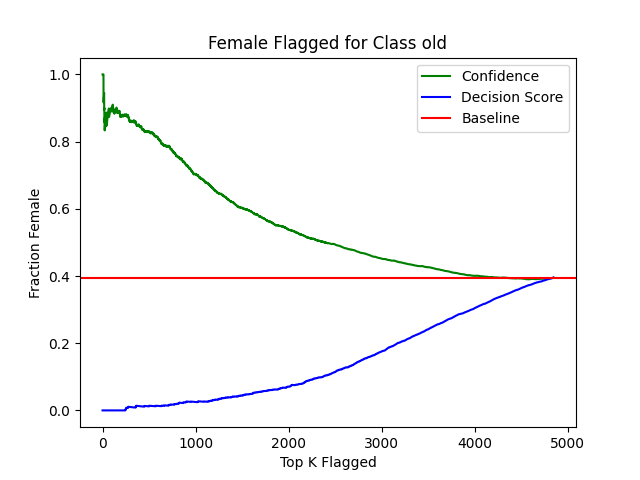
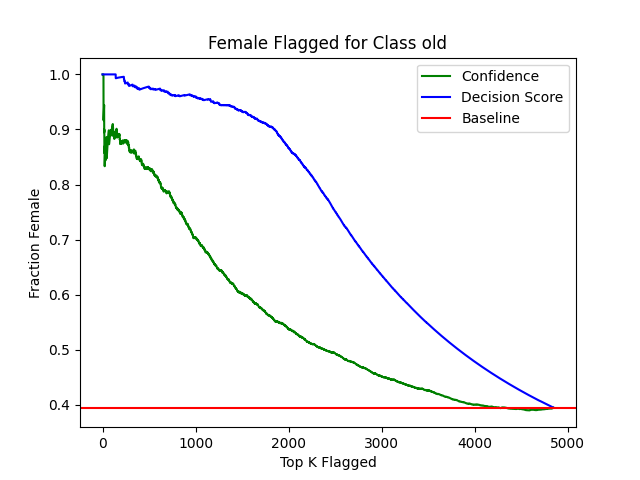
Was working on top_k results

diff --git a/new_top_k_results.py b/new_top_k_results.py
@@ -36,7 +36,7 @@ print('Initializing Models and Loaders')
 
 # Misc vars
 DEVICE = "cuda" if torch.cuda.is_available() else "cpu"
-MODES = ["old"] # ["old", "young"]
+MODES = ["young"] # ["old", "young"]
 sigmoid = nn.Sigmoid()
 
 # Custom model
@@ -59,7 +59,8 @@ VAL_DIR, TEST_DIR = os.getenv("VAL_DIR"), os.getenv("TEST_DIR")
 val_loader_no_trans = DataLoader(datasets.ImageFolder(VAL_DIR), batch_size=1)
 NUM_VAL_IMGS = len(val_loader_no_trans)
 test_loader_no_trans = DataLoader(datasets.ImageFolder(TEST_DIR), batch_size=1)
-trained_svms, scalers = [], []
+trained_svms = []
+scalers = []
 
 # CLIP
 EMBEDDING_DIM = 512
@@ -104,21 +105,24 @@ for mode in MODES:
 
     print('Finished getting clip embeddings and correctness scores.')
     print('Beginning to fit SVM classifier for class ', mode)
-    svm_classifier = LinearSVC(max_iter=5000) # old code: svm_classifier = svm.SVC(kernel="linear")
+    # svm_classifier = LinearSVC(max_iter=5000) 
+    svm_classifier = svm.SVC(kernel="linear")
     np_feat_stack = img_feature_stack.cpu().numpy()
     np_corr = np.array(correctness.cpu(), dtype=np.int8)
-    scaler = StandardScaler()
-    scaler.fit(np_feat_stack)
-    scaled_feat_stack = scaler.transform(np_feat_stack)
-    svm_classifier.fit(scaled_feat_stack, np_corr)
+    # scaler = StandardScaler()
+    # scaler.fit(np_feat_stack)
+    # scaled_feat_stack = scaler.transform(np_feat_stack)
+    # svm_classifier.fit(scaled_feat_stack, np_corr)
+    svm_classifier.fit(np_feat_stack, np_corr)
     trained_svms.append(svm_classifier)
-    scalers.append(scaler)
+    # scalers.append(scaler)
 
-assert len(MODES) == len(trained_svms) == len(scalers), \
+assert len(MODES) == len(trained_svms), \
     "Number of fitted SVMs not equal to number of classes"
 
 print("Finished training SVMs on validation data.")
-for mode, svm_c, scaler in zip(MODES, trained_svms, scalers):
+# for mode, svm_c, scaler in zip(MODES, trained_svms, scalers):
+for mode, svm_c in zip(MODES, trained_svms):
 
     current_class_num = 1 if mode == 'young' else 0
     test_paths = [tup[0] for tup in test_loader_no_trans.dataset.samples \
@@ -128,7 +132,8 @@ for mode, svm_c, scaler in zip(MODES, trained_svms, scalers):
     if CALC_SVM_ACC:
         test_correctness = torch.empty(IMGS_THIS_CLASS)
     ds_values = None
-    pil_images, sexes = [], np.empty(IMGS_THIS_CLASS)
+    pil_images = []
+    sexes = np.empty(IMGS_THIS_CLASS)
     smiles = np.empty(IMGS_THIS_CLASS) if NUM_CORRS == 2 else None
 
     with torch.no_grad():
@@ -161,18 +166,24 @@ for mode, svm_c, scaler in zip(MODES, trained_svms, scalers):
             if NUM_CORRS == 2:
                 smiles[i] = 0 if 'no_smile' in path else 1
         test_feat_stack = torch.empty(IMGS_THIS_CLASS, EMBEDDING_DIM, device=DEVICE)
-        num_test_batches = image_input.size()[0] // BATCH_SIZE
+        num_test_batches = int(np.ceil(IMGS_THIS_CLASS / BATCH_SIZE))
         cur_idx = 0
-        for b_idx in range(num_test_batches):
+        for _ in range(num_test_batches):
             end_idx = cur_idx + BATCH_SIZE
-            if end_idx >= IMGS_THIS_CLASS:
+            if end_idx > IMGS_THIS_CLASS:
                 end_idx = IMGS_THIS_CLASS
-            image_input = torch.tensor(np.stack(pil_images[cur_idx:end_idx]), device=DEVICE)
+            image_input = torch.stack(pil_images[cur_idx:end_idx])
             test_feat_stack[cur_idx:end_idx] = \
                 clip_model.encode_image(image_input).float()
             cur_idx += BATCH_SIZE
-        scaled_test_feats = scaler.transform(test_feat_stack.cpu().numpy())
-        ds_values = svm_c.decision_function(scaled_test_feats)
+        # scaled_test_feats = scaler.transform(test_feat_stack.cpu().numpy())
+        # ds_values = svm_c.decision_function(scaled_test_feats)
+        # ds_values = np.dot(svm_c.coef_[0], \
+        #     scaled_test_feats.transpose()) + \
+        #         svm_c.intercept_[0]
+        ds_values = np.dot(svm_c.coef_[0], \
+            test_feat_stack.cpu().numpy().transpose()) + \
+                svm_c.intercept_[0]
 
     if CALC_SVM_ACC:
         test_correctness = test_correctness.cpu().numpy()
@@ -183,7 +194,7 @@ for mode, svm_c, scaler in zip(MODES, trained_svms, scalers):
 
     print('Plotting/saving results for class ', mode)
     conf_sorted_idxs =  np.argsort(confidences.cpu().numpy())
-    ds_sorted_idxs = np.argsort(ds_values)
+    ds_sorted_idxs = np.flip(np.argsort(ds_values))
     conf_sorted_sexes = sexes[conf_sorted_idxs]
     ds_sorted_sexes = sexes[ds_sorted_idxs]
     conf_sorted_frac_male = np.empty(IMGS_THIS_CLASS)

diff --git a/train_resnet.py b/train_resnet.py
@@ -12,9 +12,7 @@ from mean_train import MEANS, STDEVS
 
 load_dotenv()
 
-assert torch.cuda.is_available(), "GPU is not available!"
-print(torch.cuda.device_count())
-DEVICE = f'cuda:{torch.cuda.device_count()-1}'
+DEVICE = f'cuda:{torch.cuda.device_count()-1}' if torch.cuda.is_available() else 'cpu'
 
 # From paper
 BATCH_SIZE = 512
@@ -27,8 +25,8 @@ PEAK_EPOCH = 2
 # Other vars
 DESTINATION_PATH = os.getenv("MODEL_PATH")
 print(f'Beginning training. Saving model to {DESTINATION_PATH}')
-LR_INIT= 0.2 # This is just a guess based on how initial LR for CIFAR was 0.5
-OUT_FEATS = 1 # Using BCE
+LR_INIT= 0.5 # This is just a guess based on how initial LR for CIFAR was 0.5 in Example notebook
+OUT_FEATS = 2 # CHANGED FROM 1
 img_size = (int(os.getenv("IMG_WIDTH")), int(os.getenv("IMG_HEIGHT")))
 assert img_size == (75, 75), "Images must be 75x75"
 data_transforms = transforms.Compose([
@@ -69,8 +67,10 @@ def get_lr(epo):
     return lr_schedule[epo]
 scheduler = lr_scheduler.LambdaLR(optimizer, get_lr)
 scaler = GradScaler()
-bce_loss = nn.BCEWithLogitsLoss() # nn.BCEWithLogitsLoss(reduction='none')
+# bce_loss = nn.BCEWithLogitsLoss() # nn.BCEWithLogitsLoss(reduction='none')
+ce_loss = nn.CrossEntropyLoss()
 sigmoid = nn.Sigmoid()
+softmax = nn.Softmax()
 
 for epoch in range(EPOCHS):
     epoch_loss = 0
@@ -81,15 +81,16 @@ for epoch in range(EPOCHS):
         images = images.to(DEVICE)
         labels = labels.to(DEVICE)
         with autocast():
-            logits = model(images).squeeze()
-            loss = bce_loss(logits, labels.float())
+            logits = model(images) # model(images).squeeze()
+            loss = ce_loss(logits, labels.long()) # bce_loss(logits, labels.float())
             epoch_loss += loss
         scaler.scale(loss).backward()
         scaler.step(optimizer)
         scaler.update()
         scheduler.step()
 
-        pred = sigmoid(logits) > 0.5
+        # pred = sigmoid(logits) > 0.5
+        pred = torch.argmax(logits, dim=1)
         correct = pred == labels
         epoch_correct += correct.sum()
         epoch_total += labels.size()[0]
